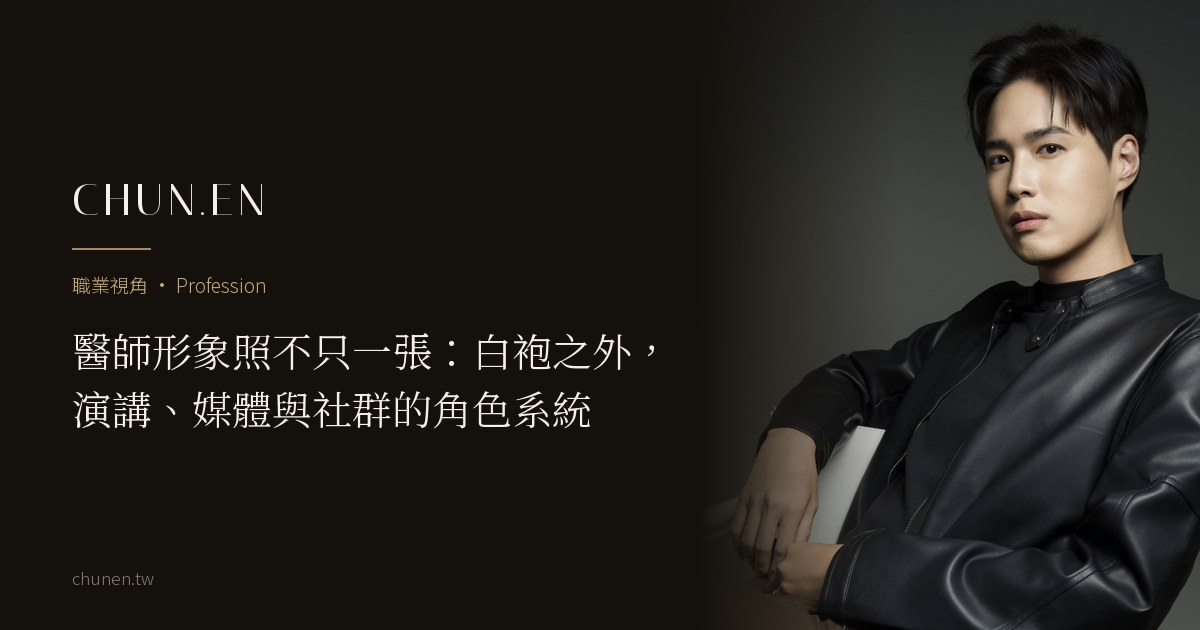
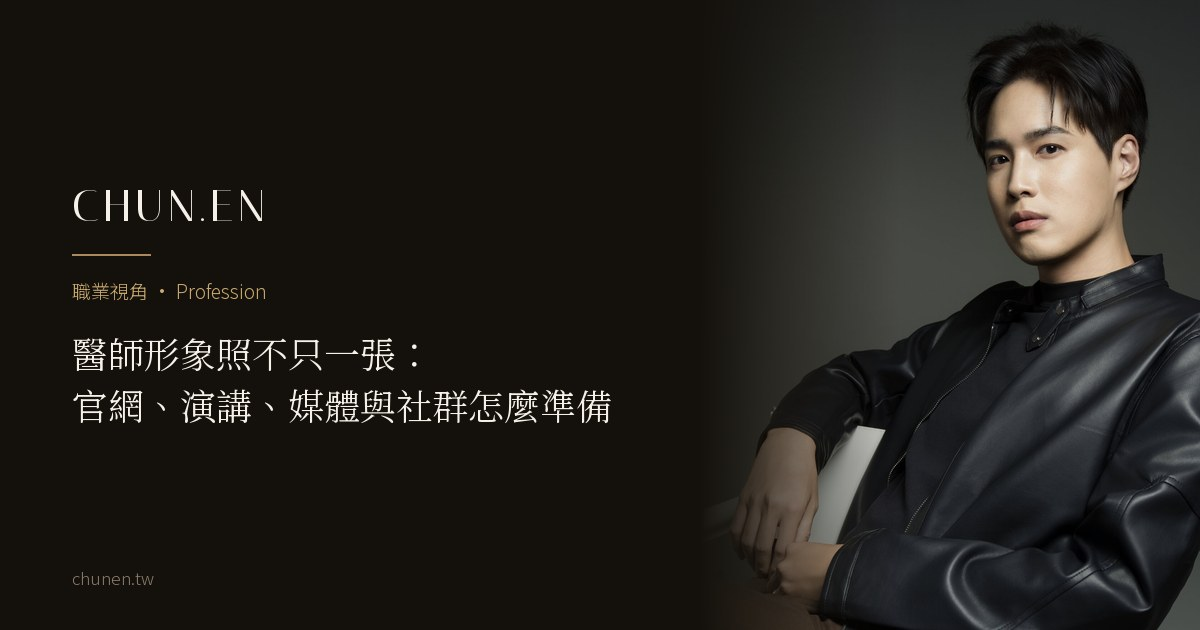
journal(B3)：第二輪審閱逐項查證後採納
真問題（已改）：
- doctor-role-system 開頭第 2、3 段與下一個 H2 前兩段講同一件事，改成一句過渡
- 兩篇 H1 降級：「角色系統」是內部語言、「就已經開始判斷」是絕對語氣而正文已改成
  「可能已經先看過」，H1 與四個鏡像（title／og／twitter／headline）一起換
- 兩篇主圖 ALT 還是觀點句（「示範白袍之外的個人風格影像」），改成純畫面描述
- PubMed 裸 URL 改成文字連結
- doctor-portrait-trust 補一條 CHUN.EN 第一手做法
- clinic 的「品牌辨識與資訊理解的成本」改成讀者看得懂的說法
- positioning 清掉「四層分類」舊詞（整篇已改稱四種方向）
- doctor-role-system FAQ 補 definition-first 第一題，可見 FAQ 與 FAQPage schema 同步

誤報（文章沒問題，是我的 MD 產生器造成的，已修工具）：
- 「色彩與身形分析整段遺失」被開成 P0：正則 <p[^>]*> 會把 <picture> 也當成段落，
  從 <picture 一路配對到下一個 </p>，把緊接在圖後面那段整段吞掉。改用 <p\b。
- 「四篇都有重複 FAQ heading」：HTML 各只有一個，是產生器把正文的 h2 與 FAQ 區段
  標題都印了一次。
- 「兩處空 H2」：收尾句都在，同樣是上面那個 <picture> bug 吃掉的。
- 「正式頁有裸 slug（→ xxx）」：那是 MD 的標記法，HTML 是正常的 <a href>。

diff --git a/journal/doctor-role-system.html b/journal/doctor-role-system.html
@@ -4,14 +4,14 @@
   <meta charset="UTF-8" />
   <meta name="viewport" content="width=device-width, initial-scale=1.0, viewport-fit=cover" />
   <meta name="robots" content="noindex" /><!-- 草稿：Kay 審核後移除此行＋掛列表頁＋入 sitemap -->
-  <title>醫師形象照不只一張：白袍之外，演講、媒體與社群的角色系統｜CHUN.EN 觀點</title>
+  <title>醫師形象照不只一張：官網、演講、媒體與社群怎麼準備｜CHUN.EN 觀點</title>
   <meta name="description" content="醫師照片除了院所官網與掛號頁，也可能出現在演講、媒體與社群。這篇整理不同使用情境需要哪些人物影像版本，以及白袍什麼時候適合保留、什麼時候可以另外準備無白袍版本。" />
   <meta name="theme-color" content="#14100B" />
   <link rel="icon" href="/favicon.ico" sizes="48x48" />
   <link rel="icon" href="/favicon-32.png" type="image/png" sizes="32x32" />
   <link rel="apple-touch-icon" href="/apple-touch-icon.png" />
   <link rel="canonical" href="https://chunen.tw/journal/doctor-role-system.html" />
-  <meta property="og:title" content="醫師形象照不只一張：白袍之外，演講、媒體與社群的角色系統｜CHUN.EN 觀點" />
+  <meta property="og:title" content="醫師形象照不只一張：官網、演講、媒體與社群怎麼準備｜CHUN.EN 觀點" />
   <meta property="og:description" content="不同版位不一定需要同一張照片，醫師形象規劃先從用途開始。" />
   <meta property="og:image" content="https://chunen.tw/assets/og/doctor-role-system-og.jpg" />
   <meta property="og:image:width" content="1200" />
@@ -20,7 +20,7 @@
   <meta property="og:type" content="article" />
   <meta property="og:locale" content="zh_TW" />
   <meta name="twitter:card" content="summary_large_image" />
-  <meta name="twitter:title" content="醫師形象照不只一張：白袍之外，演講、媒體與社群的角色系統｜CHUN.EN 觀點" />
+  <meta name="twitter:title" content="醫師形象照不只一張：官網、演講、媒體與社群怎麼準備｜CHUN.EN 觀點" />
   <meta name="twitter:description" content="不同版位不一定需要同一張照片，醫師形象規劃先從用途開始。" />
   <meta name="twitter:image" content="https://chunen.tw/assets/og/doctor-role-system-og.jpg" />
   <link rel="preconnect" href="https://fonts.googleapis.com" />
@@ -70,14 +70,14 @@
     <header style="padding: clamp(9rem, 16vh, 11rem) 0 clamp(2rem, 4vh, 3rem);">
       <div class="wrap article-wrap">
         <p class="hero-eyebrow rv">職業視角 · Profession</p>
-        <h1 class="rv rv-d1" style="font-weight: 300; font-size: clamp(1.9rem, 4.4vw, 3.2rem); line-height: 1.4; margin-top: 1rem;"><span style="white-space:nowrap;">醫師形象照不只一張：</span><span style="white-space:nowrap;">白袍之外，</span><br><span style="white-space:nowrap;">演講、媒體與社群的</span><span style="white-space:nowrap;"><em style="font-style:normal;color:var(--gold-light);">角色系統</em></span></h1>
+        <h1 class="rv rv-d1" style="font-weight: 300; font-size: clamp(1.9rem, 4.4vw, 3.2rem); line-height: 1.4; margin-top: 1rem;"><span style="white-space:nowrap;">醫師形象照不只一張：</span><br><span style="white-space:nowrap;">官網、演講、</span><span style="white-space:nowrap;">媒體與社群</span><span style="white-space:nowrap;">怎麼準備</span></h1>
         <p class="article-meta rv rv-d2">CHUN.EN 觀點 · 2026 · 閱讀約 6 分鐘</p>
       </div>
     </header>
 
     <div class="wrap article-wrap">
       <div class="jcard-media rv" style="aspect-ratio: auto; width: auto; max-width: 620px; margin: 0 auto clamp(2.5rem, 6vh, 4rem);">
-        <picture style="display:block"><source type="image/webp" srcset="../assets/gallery/works/19-760.webp 760w, ../assets/gallery/works/19-1240.webp 1240w" sizes="(max-width: 700px) calc(100vw - 40px), 620px" /><img src="../assets/gallery/works/19-1400.jpg" alt="灰色背景下的黑色皮衣男性坐姿形象照，示範白袍之外的個人風格影像" style="width:100%;height:auto;display:block;" width="1400" height="2100" fetchpriority="high" /></picture>
+        <picture style="display:block"><source type="image/webp" srcset="../assets/gallery/works/19-760.webp 760w, ../assets/gallery/works/19-1240.webp 1240w" sizes="(max-width: 700px) calc(100vw - 40px), 620px" /><img src="../assets/gallery/works/19-1400.jpg" alt="灰色背景下，穿黑色皮衣的男性坐姿人像" style="width:100%;height:auto;display:block;" width="1400" height="2100" fetchpriority="high" /></picture>
       </div>
 
       <div class="keypoints rv">
@@ -91,8 +91,7 @@
 
       <div class="article-body rv">
 <p class="article-lead">醫師形象規劃，是先確認照片實際會出現在哪些地方，再依診所官網、演講、媒體或社群等用途，決定需要哪些服裝、構圖與人物照片版本。</p>
-<p>白袍能快速傳遞醫療身分，因此在院所官網、掛號頁與醫師介紹等版位仍然很實用。</p>
-<p>當工作開始延伸到演講、媒體、學會或社群，是否需要另外準備無白袍版本，就可以依實際用途再判斷。</p>
+<p>其中一個最常遇到的問題，就是白袍是不是每個版位都要保留。</p>
 
 <h2>白袍能處理什麼，不能處理什麼？</h2>
 <p>白袍能快速傳遞醫療身分，因此適合醫院官網、掛號頁與醫師介紹等需要清楚職業辨識的版位。</p>
@@ -132,6 +131,7 @@
 <h2>常見<em>問題</em></h2>
 <p>本文從商業視覺與影像應用的角度出發，不構成醫療、法律或院所法遵意見。</p>
 <div class="faq">
+<details><summary>醫師形象照規劃是什麼？<span class="mark">+</span></summary><div class="a">醫師形象規劃是先確認人物照片會使用在哪些版位，再依官網、演講、媒體與社群等用途，決定需要哪些服裝、構圖與照片版本。不同用途不一定需要同一張照片，也不代表固定要拍四種版本。</div></details>
 <details><summary>醫師形象照只拍一張白袍照就夠嗎？<span class="mark">+</span></summary><div class="a">不一定。如果照片只使用在院所官網與掛號頁，白袍版本可能已經足夠；如果還固定出現在講座、媒體或社群，就可以再依實際版位補不同正式程度與構圖的版本。</div></details>
 <details><summary>我只是偶爾演講，需要準備很多版本嗎？<span class="mark">+</span></summary><div class="a">不一定。先看演講使用的是講者頁、活動手冊、主視覺，還是只需要一張人物介紹照。如果現有照片已經能使用，就不需要為了「系統」另外多拍；真正有固定多版位需求時，再進一步規劃即可。</div></details>
 <details><summary>醫師形象照會涉及醫療廣告規範嗎？<span class="mark">+</span></summary><div class="a">要看照片和什麼文字、版位與發布目的一起使用。依醫療法，是否屬醫療廣告與是否符合規範，需要看整體內容判斷；網路資訊也另有管理規定。形象照本身不能用來暗示療效或取代醫療資訊，院所正式發布前仍應依當時法規與主管機關指引完成法遵確認。 衛福部醫療廣告管理資訊： <a href="https://dep.mohw.gov.tw/DOMA/fp-2708-38120-106.html" rel="nofollow">https://dep.mohw.gov.tw/DOMA/fp-2708-38120-106.html</a></div></details>
@@ -177,11 +177,11 @@
 
   <a class="float-line" href="https://lin.ee/wINWAGj" target="_blank" rel="noopener" aria-label="LINE 諮詢"><svg viewBox="0 0 24 24" fill="#fff" xmlns="http://www.w3.org/2000/svg"><path d="M12 2C6.48 2 2 5.64 2 10.13c0 4.03 3.58 7.4 8.42 8.04.33.07.77.22.89.5.1.26.07.66.03.92l-.14.86c-.04.26-.2 1.01.89.55 1.09-.46 5.87-3.46 8.01-5.92C21.56 13.44 22 11.86 22 10.13 22 5.64 17.52 2 12 2zM8.39 12.8H6.16a.53.53 0 0 1-.53-.53V8.51a.53.53 0 0 1 1.06 0v3.23h1.7a.53.53 0 1 1 0 1.06zm1.83-.53a.53.53 0 0 1-1.06 0V8.51a.53.53 0 0 1 1.06 0v3.76zm4.54 0a.53.53 0 0 1-.36.5.55.55 0 0 1-.17.03.52.52 0 0 1-.42-.21l-1.93-2.62v2.3a.53.53 0 0 1-1.06 0V8.51a.53.53 0 0 1 .36-.5.52.52 0 0 1 .59.18l1.93 2.62v-2.3a.53.53 0 0 1 1.06 0v3.76zm3.64-2.41a.53.53 0 1 1 0 1.06h-1.7v.82h1.7a.53.53 0 1 1 0 1.06h-2.23a.53.53 0 0 1-.53-.53V8.51c0-.29.24-.53.53-.53h2.23a.53.53 0 1 1 0 1.06h-1.7v.82h1.7z"/></svg></a>
 
-  <script type="application/ld+json">{"@context": "https://schema.org","@type": "Article","headline": "醫師形象照不只一張：白袍之外，演講、媒體與社群的角色系統","description": "醫師照片除了院所官網與掛號頁，也可能出現在演講、媒體與社群。這篇整理不同使用情境需要哪些人物影像版本，以及白袍什麼時候適合保留、什麼時候可以另外準備無白袍版本。","image": "https://chunen.tw/assets/gallery/works/19-1400.jpg","author": {"@type": "Person","@id": "https://chunen.tw/author/zoey-wu.html#zoey","name": "吳惇恩","alternateName": "Zoey Wu","jobTitle": "Founder & Brand Director","image": "https://chunen.tw/assets/images/zoey-author-640.jpg","url": "https://chunen.tw/author/zoey-wu.html"},"publisher": {"@type": "Organization","@id": "https://chunen.tw/#business","name": "CHUN.EN 形象美學","logo": {"@type": "ImageObject","url": "https://chunen.tw/icon-512.png"}},"datePublished": "2026-07-18","dateModified": "2026-07-18","inLanguage": "zh-Hant-TW","isPartOf": {"@id": "https://chunen.tw/#website"},"mainEntityOfPage": "https://chunen.tw/journal/doctor-role-system.html"}</script>
+  <script type="application/ld+json">{"@context": "https://schema.org","@type": "Article","headline": "醫師形象照不只一張：官網、演講、媒體與社群怎麼準備","description": "醫師照片除了院所官網與掛號頁，也可能出現在演講、媒體與社群。這篇整理不同使用情境需要哪些人物影像版本，以及白袍什麼時候適合保留、什麼時候可以另外準備無白袍版本。","image": "https://chunen.tw/assets/gallery/works/19-1400.jpg","author": {"@type": "Person","@id": "https://chunen.tw/author/zoey-wu.html#zoey","name": "吳惇恩","alternateName": "Zoey Wu","jobTitle": "Founder & Brand Director","image": "https://chunen.tw/assets/images/zoey-author-640.jpg","url": "https://chunen.tw/author/zoey-wu.html"},"publisher": {"@type": "Organization","@id": "https://chunen.tw/#business","name": "CHUN.EN 形象美學","logo": {"@type": "ImageObject","url": "https://chunen.tw/icon-512.png"}},"datePublished": "2026-07-18","dateModified": "2026-07-18","inLanguage": "zh-Hant-TW","isPartOf": {"@id": "https://chunen.tw/#website"},"mainEntityOfPage": "https://chunen.tw/journal/doctor-role-system.html"}</script>
 
   <script src="../v5.js?v=202609061500" defer></script>
   <script src="../consent.js?v=202608101000" defer></script>
-  <script type="application/ld+json">{"@context": "https://schema.org","@type": "FAQPage","mainEntity": [{"@type": "Question","name": "醫師形象照只拍一張白袍照就夠嗎？","acceptedAnswer": {"@type": "Answer","text": "不一定。如果照片只使用在院所官網與掛號頁，白袍版本可能已經足夠；如果還固定出現在講座、媒體或社群，就可以再依實際版位補不同正式程度與構圖的版本。"}},{"@type": "Question","name": "我只是偶爾演講，需要準備很多版本嗎？","acceptedAnswer": {"@type": "Answer","text": "不一定。先看演講使用的是講者頁、活動手冊、主視覺，還是只需要一張人物介紹照。如果現有照片已經能使用，就不需要為了「系統」另外多拍；真正有固定多版位需求時，再進一步規劃即可。"}},{"@type": "Question","name": "醫師形象照會涉及醫療廣告規範嗎？","acceptedAnswer": {"@type": "Answer","text": "要看照片和什麼文字、版位與發布目的一起使用。依醫療法，是否屬醫療廣告與是否符合規範，需要看整體內容判斷；網路資訊也另有管理規定。形象照本身不能用來暗示療效或取代醫療資訊，院所正式發布前仍應依當時法規與主管機關指引完成法遵確認。 衛福部醫療廣告管理資訊： https://dep.mohw.gov.tw/DOMA/fp-2708-38120-106.html"}},{"@type": "Question","name": "科別會影響形象規劃嗎？","acceptedAnswer": {"@type": "Answer","text": "科別會影響工作情境與公開場合，但不適合直接套用固定的「親和／權威」比例。拍攝前仍要回到實際病人、工作內容、主要版位與使用需求判斷。"}}]}</script>
+  <script type="application/ld+json">{"@context": "https://schema.org","@type": "FAQPage","mainEntity": [{"@type": "Question","name": "醫師形象照規劃是什麼？","acceptedAnswer": {"@type": "Answer","text": "醫師形象規劃是先確認人物照片會使用在哪些版位，再依官網、演講、媒體與社群等用途，決定需要哪些服裝、構圖與照片版本。不同用途不一定需要同一張照片，也不代表固定要拍四種版本。"}},{"@type": "Question","name": "醫師形象照只拍一張白袍照就夠嗎？","acceptedAnswer": {"@type": "Answer","text": "不一定。如果照片只使用在院所官網與掛號頁，白袍版本可能已經足夠；如果還固定出現在講座、媒體或社群，就可以再依實際版位補不同正式程度與構圖的版本。"}},{"@type": "Question","name": "我只是偶爾演講，需要準備很多版本嗎？","acceptedAnswer": {"@type": "Answer","text": "不一定。先看演講使用的是講者頁、活動手冊、主視覺，還是只需要一張人物介紹照。如果現有照片已經能使用，就不需要為了「系統」另外多拍；真正有固定多版位需求時，再進一步規劃即可。"}},{"@type": "Question","name": "醫師形象照會涉及醫療廣告規範嗎？","acceptedAnswer": {"@type": "Answer","text": "要看照片和什麼文字、版位與發布目的一起使用。依醫療法，是否屬醫療廣告與是否符合規範，需要看整體內容判斷；網路資訊也另有管理規定。形象照本身不能用來暗示療效或取代醫療資訊，院所正式發布前仍應依當時法規與主管機關指引完成法遵確認。 衛福部醫療廣告管理資訊： https://dep.mohw.gov.tw/DOMA/fp-2708-38120-106.html"}},{"@type": "Question","name": "科別會影響形象規劃嗎？","acceptedAnswer": {"@type": "Answer","text": "科別會影響工作情境與公開場合，但不適合直接套用固定的「親和／權威」比例。拍攝前仍要回到實際病人、工作內容、主要版位與使用需求判斷。"}}]}</script>
 
   <script type="application/ld+json">{"@context": "https://schema.org","@type": "BreadcrumbList","itemListElement": [{"@type": "ListItem","position": 1,"name": "首頁","item": "https://chunen.tw/"},{"@type": "ListItem","position": 2,"name": "專欄","item": "https://chunen.tw/journal/"},{"@type": "ListItem","position": 3,"name": "醫師形象照不只一張：白袍之外，演講、媒體與社群的角色系統","item": "https://chunen.tw/journal/doctor-role-system.html"}]}</script>
 </body>

diff --git a/journal/doctor-portrait-trust.html b/journal/doctor-portrait-trust.html
@@ -4,14 +4,14 @@
   <meta charset="UTF-8" />
   <meta name="viewport" content="width=device-width, initial-scale=1.0, viewport-fit=cover" />
   <meta name="robots" content="noindex" /><!-- 草稿：Kay 審核後移除此行＋掛列表頁＋入 sitemap -->
-  <title>醫師形象照：病人在你開口之前，就已經開始判斷｜CHUN.EN 觀點</title>
+  <title>醫師形象照：白袍之外，先看照片會用在哪裡｜CHUN.EN 觀點</title>
   <meta name="description" content="醫師形象照常用在官網、掛號頁、媒體與專業介紹。它不能證明醫術，但會參與病人對人物身分與公開形象的第一輪理解。這篇整理白袍能處理什麼、不同使用情境怎麼決定影像方向。" />
   <meta name="theme-color" content="#14100B" />
   <link rel="icon" href="/favicon.ico" sizes="48x48" />
   <link rel="icon" href="/favicon-32.png" type="image/png" sizes="32x32" />
   <link rel="apple-touch-icon" href="/apple-touch-icon.png" />
   <link rel="canonical" href="https://chunen.tw/journal/doctor-portrait-trust.html" />
-  <meta property="og:title" content="醫師形象照：病人在你開口之前，就已經開始判斷｜CHUN.EN 觀點" />
+  <meta property="og:title" content="醫師形象照：白袍之外，先看照片會用在哪裡｜CHUN.EN 觀點" />
   <meta property="og:description" content="醫師形象照不能證明醫術，但會參與病人對人物身分與公開形象的第一輪理解。" />
   <meta property="og:image" content="https://chunen.tw/assets/og/doctor-portrait-trust-og.jpg" />
   <meta property="og:image:width" content="1200" />
@@ -20,7 +20,7 @@
   <meta property="og:type" content="article" />
   <meta property="og:locale" content="zh_TW" />
   <meta name="twitter:card" content="summary_large_image" />
-  <meta name="twitter:title" content="醫師形象照：病人在你開口之前，就已經開始判斷｜CHUN.EN 觀點" />
+  <meta name="twitter:title" content="醫師形象照：白袍之外，先看照片會用在哪裡｜CHUN.EN 觀點" />
   <meta name="twitter:description" content="醫師形象照不能證明醫術，但會參與病人對人物身分與公開形象的第一輪理解。" />
   <meta name="twitter:image" content="https://chunen.tw/assets/og/doctor-portrait-trust-og.jpg" />
   <link rel="preconnect" href="https://fonts.googleapis.com" />
@@ -70,7 +70,7 @@
     <header style="padding: clamp(9rem, 16vh, 11rem) 0 clamp(2rem, 4vh, 3rem);">
       <div class="wrap article-wrap">
         <p class="hero-eyebrow rv">職業視角 · Profession</p>
-        <h1 class="rv rv-d1" style="font-weight: 300; font-size: clamp(1.9rem, 4.4vw, 3.2rem); line-height: 1.4; margin-top: 1rem;"><span style="white-space:nowrap;">醫師形象照：</span><span style="white-space:nowrap;">病人在你開口之前，</span><br><span style="white-space:nowrap;">就已經開始<em style="font-style:normal;color:var(--gold-light);">判斷</em></span></h1>
+        <h1 class="rv rv-d1" style="font-weight: 300; font-size: clamp(1.9rem, 4.4vw, 3.2rem); line-height: 1.4; margin-top: 1rem;"><span style="white-space:nowrap;">醫師形象照：</span><span style="white-space:nowrap;">白袍之外，</span><br><span style="white-space:nowrap;">先看照片</span><span style="white-space:nowrap;">會用在哪裡</span></h1>
         <p class="article-meta rv rv-d2">CHUN.EN 觀點 · 2026 · 閱讀約 5 分鐘</p>
       </div>
     </header>
@@ -98,7 +98,7 @@
 <p>白袍是醫師照片裡常見的職業識別，能快速傳遞醫療身分。</p>
 <p>2026 年一項針對 274 位住院病人的研究，比較「傳統服裝加白袍」與「刷手服」兩種醫師穿著，病人在信任量表上的評分沒有顯著差異。</p>
 <p>這項研究談的是住院情境中的醫師穿著，不是形象照，因此不能直接推論哪一種照片比較能建立信任；至少可以確認，白袍本身不能直接等同病人信任。</p>
-<p>原始研究：<br />Tudtud-Hans et al. *Does what doctors wear really matter? The DRESS prospective study on patient trust.* The American Journal of Medicine, 2026.<br /><a href="https://pubmed.ncbi.nlm.nih.gov/41802532/" rel="nofollow">https://pubmed.ncbi.nlm.nih.gov/41802532/</a></p>
+<p>原始研究：<br />Tudtud-Hans et al. *Does what doctors wear really matter? The DRESS prospective study on patient trust.* The American Journal of Medicine, 2026.<br /><a href="https://pubmed.ncbi.nlm.nih.gov/41802532/" rel="nofollow">研究來源｜The DRESS prospective study on patient trust</a></p>
 <p>在人物影像裡，白袍之外還有表情、姿態、服裝、背景與構圖。這些元素會改變照片呈現的正式程度與人物狀態，但不能代替醫術、經驗與實際診療。</p>
 
 <h2>影像方向先看使用情境，不先套科別公式</h2>
@@ -107,6 +107,7 @@
 <p>拍攝前更值得確認的是：</p>
 <ul><li>主要由誰看到</li><li>照片會用在哪些地方</li><li>這次需要做到多正式</li></ul>
 <p>這些條件確定後，再決定服裝、妝髮、表情與構圖。</p>
+<p>在 CHUN.EN 的人物影像規劃中，我們會先確認主要版位與正式程度，再決定是否保留白袍，以及是否需要另外準備無白袍版本。</p>
 <p>科別仍然會影響情境與內容，但不代表同一科的醫師一定要拍成同一種樣子。</p>
 <blockquote>醫師形象照可以先處理人物辨識與使用情境，醫療專業仍要由實際內容、經驗與診療支撐。</blockquote>
 
@@ -168,7 +169,7 @@
 
   <a class="float-line" href="https://lin.ee/wINWAGj" target="_blank" rel="noopener" aria-label="LINE 諮詢"><svg viewBox="0 0 24 24" fill="#fff" xmlns="http://www.w3.org/2000/svg"><path d="M12 2C6.48 2 2 5.64 2 10.13c0 4.03 3.58 7.4 8.42 8.04.33.07.77.22.89.5.1.26.07.66.03.92l-.14.86c-.04.26-.2 1.01.89.55 1.09-.46 5.87-3.46 8.01-5.92C21.56 13.44 22 11.86 22 10.13 22 5.64 17.52 2 12 2zM8.39 12.8H6.16a.53.53 0 0 1-.53-.53V8.51a.53.53 0 0 1 1.06 0v3.23h1.7a.53.53 0 1 1 0 1.06zm1.83-.53a.53.53 0 0 1-1.06 0V8.51a.53.53 0 0 1 1.06 0v3.76zm4.54 0a.53.53 0 0 1-.36.5.55.55 0 0 1-.17.03.52.52 0 0 1-.42-.21l-1.93-2.62v2.3a.53.53 0 0 1-1.06 0V8.51a.53.53 0 0 1 .36-.5.52.52 0 0 1 .59.18l1.93 2.62v-2.3a.53.53 0 0 1 1.06 0v3.76zm3.64-2.41a.53.53 0 1 1 0 1.06h-1.7v.82h1.7a.53.53 0 1 1 0 1.06h-2.23a.53.53 0 0 1-.53-.53V8.51c0-.29.24-.53.53-.53h2.23a.53.53 0 1 1 0 1.06h-1.7v.82h1.7z"/></svg></a>
 
-  <script type="application/ld+json">{"@context": "https://schema.org","@type": "Article","headline": "醫師形象照：病人在你開口之前，就已經開始判斷","description": "醫師形象照常用在官網、掛號頁、媒體與專業介紹。它不能證明醫術，但會參與病人對人物身分與公開形象的第一輪理解。這篇整理白袍能處理什麼、不同使用情境怎麼決定影像方向。","image": "https://chunen.tw/assets/gallery/works/17-1400.jpg","author": {"@type": "Person","@id": "https://chunen.tw/author/zoey-wu.html#zoey","name": "吳惇恩","alternateName": "Zoey Wu","jobTitle": "Founder & Brand Director","image": "https://chunen.tw/assets/images/zoey-author-640.jpg","url": "https://chunen.tw/author/zoey-wu.html"},"publisher": {"@type": "Organization","@id": "https://chunen.tw/#business","name": "CHUN.EN 形象美學","logo": {"@type": "ImageObject","url": "https://chunen.tw/icon-512.png"}},"datePublished": "2026-07-16","dateModified": "2026-07-16","inLanguage": "zh-Hant-TW","isPartOf": {"@id": "https://chunen.tw/#website"},"mainEntityOfPage": "https://chunen.tw/journal/doctor-portrait-trust.html"}</script>
+  <script type="application/ld+json">{"@context": "https://schema.org","@type": "Article","headline": "醫師形象照：白袍之外，先看照片會用在哪裡","description": "醫師形象照常用在官網、掛號頁、媒體與專業介紹。它不能證明醫術，但會參與病人對人物身分與公開形象的第一輪理解。這篇整理白袍能處理什麼、不同使用情境怎麼決定影像方向。","image": "https://chunen.tw/assets/gallery/works/17-1400.jpg","author": {"@type": "Person","@id": "https://chunen.tw/author/zoey-wu.html#zoey","name": "吳惇恩","alternateName": "Zoey Wu","jobTitle": "Founder & Brand Director","image": "https://chunen.tw/assets/images/zoey-author-640.jpg","url": "https://chunen.tw/author/zoey-wu.html"},"publisher": {"@type": "Organization","@id": "https://chunen.tw/#business","name": "CHUN.EN 形象美學","logo": {"@type": "ImageObject","url": "https://chunen.tw/icon-512.png"}},"datePublished": "2026-07-16","dateModified": "2026-07-16","inLanguage": "zh-Hant-TW","isPartOf": {"@id": "https://chunen.tw/#website"},"mainEntityOfPage": "https://chunen.tw/journal/doctor-portrait-trust.html"}</script>
 
   <script src="../v5.js?v=202609061500" defer></script>
   <script src="../consent.js?v=202608101000" defer></script>

diff --git a/journal/positioning-is-not-personal-color.html b/journal/positioning-is-not-personal-color.html
@@ -75,7 +75,7 @@
 
     <div class="wrap article-wrap">
       <div class="jcard-media rv" style="aspect-ratio: auto; width: auto; max-width: 620px; margin: 0 auto clamp(2.5rem, 6vh, 4rem);">
-        <picture style="display:block"><source type="image/webp" srcset="../assets/gallery/works/22-900.webp 900w, ../assets/gallery/works/22-1600.webp 1600w" sizes="(max-width: 700px) calc(100vw - 40px), 620px" /><img src="../assets/gallery/works/22-1400.jpg" alt="專業工作者的商業形象照，服裝、妝髮與畫面沿用同一套形象方向" style="width:100%;height:auto;display:block;" width="1400" height="2100" fetchpriority="high" /></picture>
+        <picture style="display:block"><source type="image/webp" srcset="../assets/gallery/works/22-900.webp 900w, ../assets/gallery/works/22-1600.webp 1600w" sizes="(max-width: 700px) calc(100vw - 40px), 620px" /><img src="../assets/gallery/works/22-1400.jpg" alt="專業工作者的半身形象照，人物穿著正式服裝站在素色背景前" style="width:100%;height:auto;display:block;" width="1400" height="2100" fetchpriority="high" /></picture>
       </div>
 
       <div class="keypoints rv">
@@ -96,10 +96,10 @@
 
 <h2>為了比較，可以把常見需求整理成四種方向</h2>
 <p>為了方便比較，本文把常見的形象服務需求整理成四種方向。</p>
-<p>這是 CHUN.EN 用來說明服務差異的整理方式，不代表市場有統一的四層分類；同一位專業工作者也可能同時提供兩種以上的服務。</p>
+<p>這是 CHUN.EN 用來說明服務差異的整理方式，不代表市場有統一的分類方式；同一位專業工作者也可能同時提供兩種以上的服務。</p>
 
 <figure class="article-fig crop45">
-<picture style="display:block"><source type="image/webp" srcset="../assets/gallery/works/27-900.webp 900w, ../assets/gallery/works/27-1600.webp 1600w" sizes="(max-width: 700px) calc(100vw - 40px), 620px" /><img src="../assets/gallery/works/27-1400.jpg" alt="商業視覺定位下完成的形象照，服裝色彩依角色與使用場合決定" width="1400" height="2100" loading="lazy" /></picture>
+<picture style="display:block"><source type="image/webp" srcset="../assets/gallery/works/27-900.webp 900w, ../assets/gallery/works/27-1600.webp 1600w" sizes="(max-width: 700px) calc(100vw - 40px), 620px" /><img src="../assets/gallery/works/27-1400.jpg" alt="人物穿著藍色系服裝站在素色背景前的半身形象照" width="1400" height="2100" loading="lazy" /></picture>
 
 </figure>
 <p><strong>色彩與身形分析</strong><br />個人色彩診斷提供色彩範圍的參考；骨架分析則從身體結構與比例提供版型與材質的參考。這類服務主要處理「哪些條件和自己比較協調」。</p>

diff --git a/journal/clinic-image-consistency.html b/journal/clinic-image-consistency.html
@@ -95,7 +95,7 @@
 
 <h2>不同接觸點之間，有沒有明顯落差</h2>
 <p>空間、官網與人物照片如果使用不同的視覺規則，使用者在不同入口看到的診所可能會出現明顯落差。</p>
-<p>這不代表醫療品質有問題，但會增加品牌辨識與資訊理解的成本。</p>
+<p>這不代表醫療品質有問題，但不同入口的資訊與視覺如果落差太大，會比較難快速辨認它們是否屬於同一家診所。</p>
 <p>診所形象的一致性處理的是這個落差。它不能取代醫療專業、療程說明與實際診療，但可以讓不同接觸點看起來仍然屬於同一家診所。</p>
 <blockquote>診所形象的一致性，處理的是不同接觸點之間的連貫，而不是替醫療專業下判斷。</blockquote>
 
